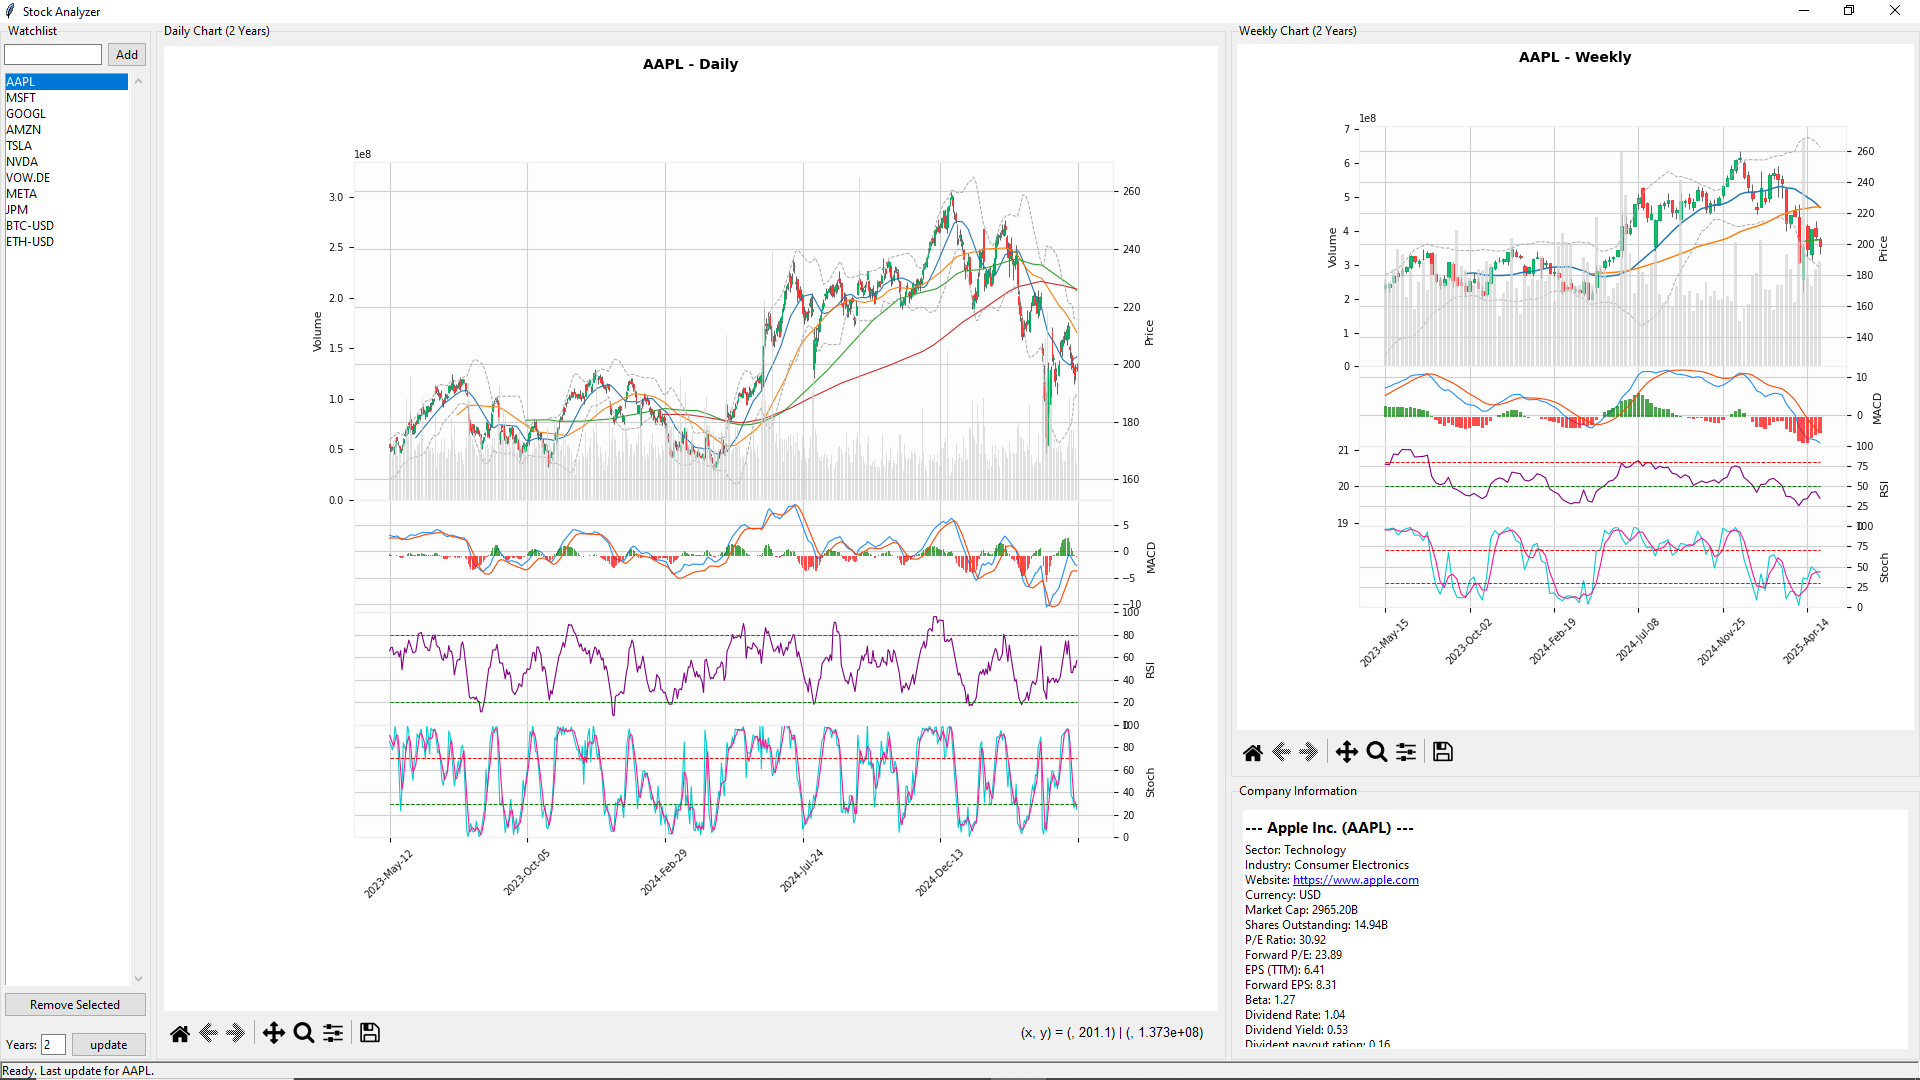
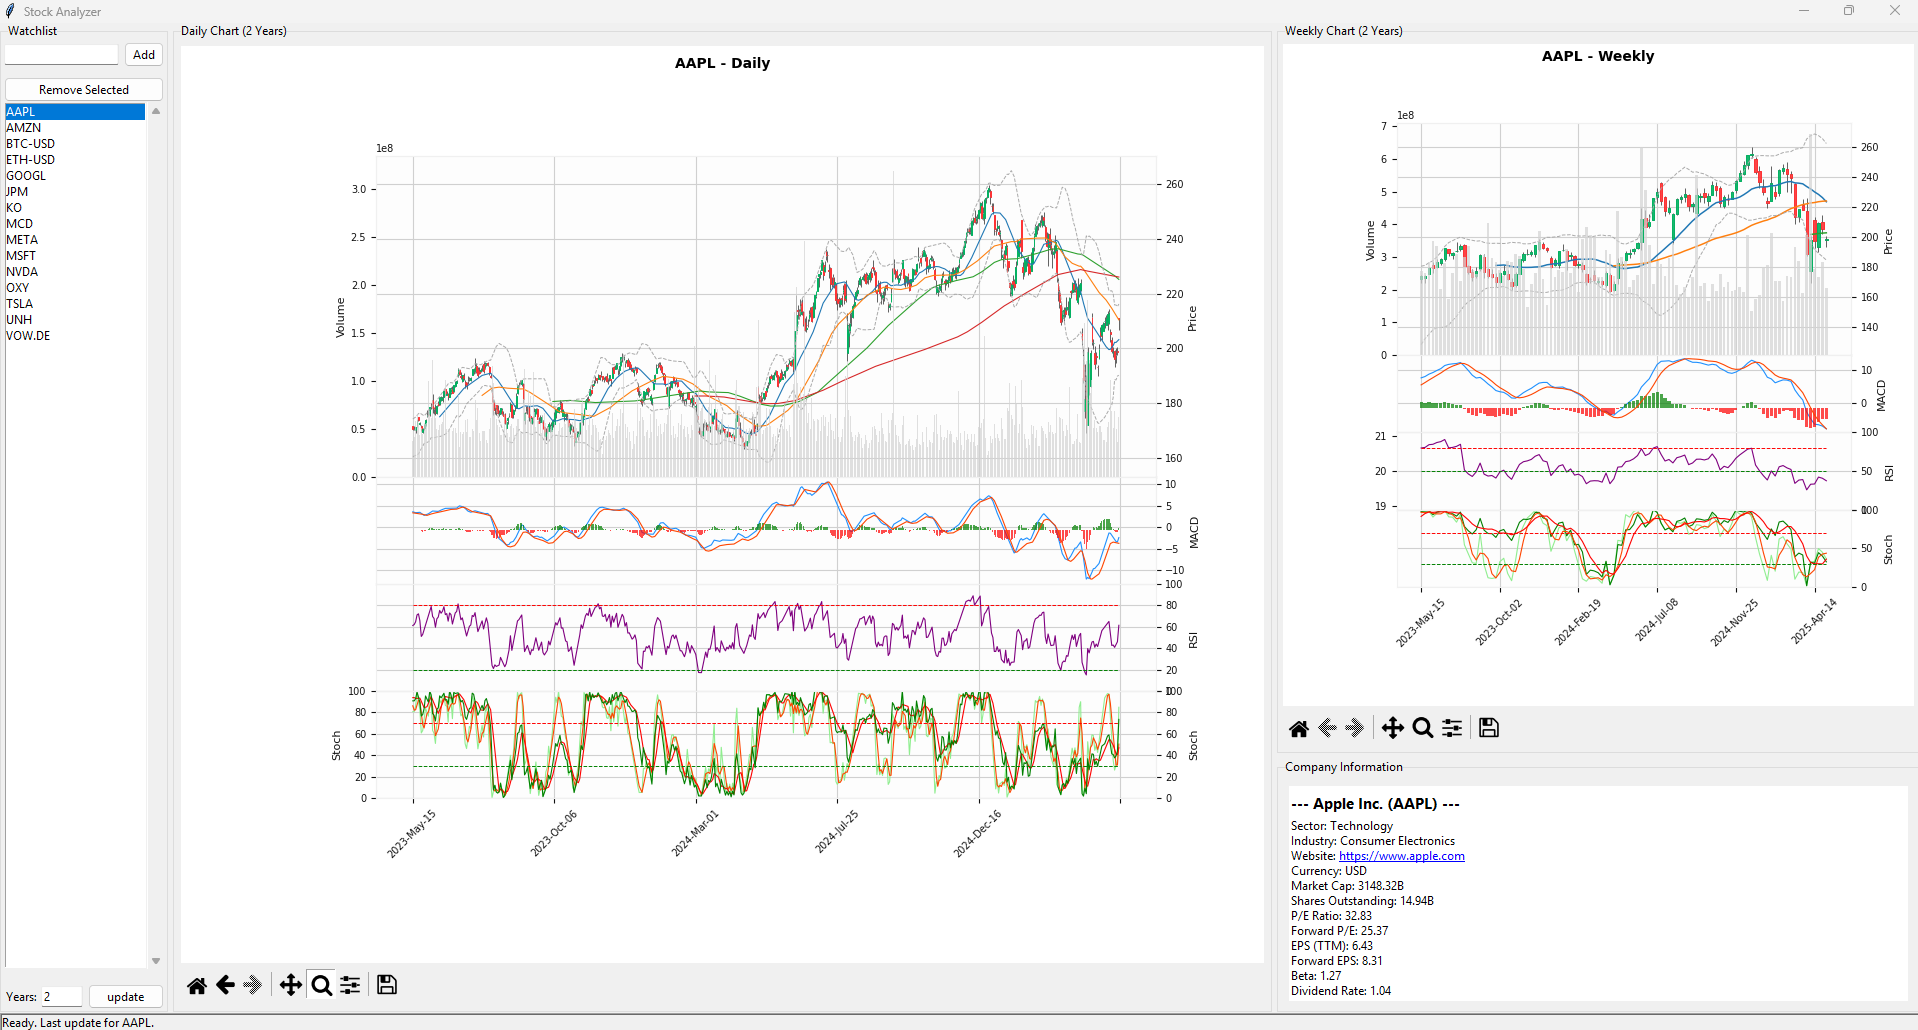
added slow and fast stochastic %K,%D lines refactoring

diff --git a/src/indicators.py b/src/indicators.py
@@ -10,64 +10,11 @@ class Calculator:
     self.df = df.copy()
     return self
   #--------------------------------------------------------------------------------------------------------------------------------
-  def get(self) -> pd.DataFrame: 
+  def get(self) -> pd.DataFrame:
     return self.df
-  #--------------------------------------------------------------------------------------------------------------------------------
-  def addSmas(self, windows: List[int] = [10, 20, 50, 100, 200]):
-    df = self.df
-    if 'Close' not in df.columns: return df
-    for window in windows:
-      if window <= len(df):
-        df[f'Sma{window}'] = df['Close'].rolling(window=window, min_periods=1).mean()
-      else:
-        df[f'Sma{window}'] = pd.NA
-  #--------------------------------------------------------------------------------------------------------------------------------
-  def addBollingerBands(self, window: int = 20, numStdDev: int = 2):
-    df = self.df
-    if 'Close' not in df.columns: return df
-    if window <= len(df):
-      df['BbMiddle'] = df['Close'].rolling(window=window, min_periods=1).mean()
-      stdDev = df['Close'].rolling(window=window, min_periods=1).std()
-      df['BbUpper'] = df['BbMiddle'] + (stdDev * numStdDev)
-      df['BbLower'] = df['BbMiddle'] - (stdDev * numStdDev)
-    else:
-      df['BbMiddle'] = pd.NA
-      df['BbUpper'] = pd.NA
-      df['BbLower'] = pd.NA
-  #--------------------------------------------------------------------------------------------------------------------------------
-  def addMacd(self, shortWindow: int = 12, longWindow: int = 26, signalWindow: int = 9):
-    df = self.df
-    if 'Close' not in df.columns: return df
-    if longWindow <= len(df):
-      shortEma = df['Close'].ewm(span=shortWindow, adjust=False, min_periods=1).mean()
-      longEma = df['Close'].ewm(span=longWindow, adjust=False, min_periods=1).mean()
-      df['MACD'] = shortEma - longEma
-      if signalWindow <= len(df['MACD'].dropna()):
-        df['MacdSignal'] = df['MACD'].ewm(span=signalWindow, adjust=False, min_periods=1).mean()
-        df['MacdHist'] = df['MACD'] - df['MacdSignal']
-      else:
-        df['MacdSignal'] = pd.NA
-        df['MacdHist'] = pd.NA
-    else:
-      df['MACD'] = pd.NA
-      df['MacdSignal'] = pd.NA
-      df['MacdHist'] = pd.NA
-  #--------------------------------------------------------------------------------------------------------------------------------
-  def addRsi(self, window: int = 14):
-    df = self.df
-    if 'Close' not in df.columns: return df
-    if window < len(df):
-      delta = df['Close'].diff(1)
-      gain = (delta.where(delta > 0, 0.0)).rolling(window=window, min_periods=1).mean()
-      loss = (-delta.where(delta < 0, 0.0)).rolling(window=window, min_periods=1).mean()
-      rs = gain / loss.replace(0, 1e-9)
-      df['RSI'] = 100 - (100 / (1 + rs))
-      df['RSI'] = df['RSI'].fillna(50)
-    else:
-      df['RSI'] = 50.0
-  #--------------------------------------------------------------------------------------------------------------------------------
-  def addStochastic(self, kWindow: int = 14, dWindow: int = 3):
-    df = self.df
+  #----------------------------------------------------------------------------------------------------------------------  
+  def addStochasticOscillator(self, kWindow:int=14, dWindow:int=3) -> pd.DataFrame:
+    df = self.df.copy()
     if 'Close' not in df.columns or 'Low' not in df.columns or 'High' not in df.columns: return df
     if kWindow <= len(df):
       lowMin = df['Low'].rolling(window=kWindow, min_periods=1).min()
@@ -83,6 +30,101 @@ class Calculator:
     else:
       df['%K'] = 50.0
       df['%D'] = 50.0
+    return df
+  #--------------------------------------------------------------------------------------------------------------------------------
+  def addStochastic(self, kWindow: int = 16, dWindow: int = 3):
+    #self.df = self.addStochasticOscillator(kWindow, dWindow)
+    stoch = self.addStochasticOscillator(kWindow, dWindow)
+    # make slow Stochastic Oscillator with standard window 3
+    self.df['stochK'] = stoch["%K"].copy()
+    self.df['stochD'] = stoch["%D"].copy()
+    # make average of stochastic k and signal
+    # 20, 5; 15, 12; 18, 14
+    #df['stochKSlow'] = df['stochK'].rolling(window=12).mean()
+    #df['StMaS'] = df['stochSignalK'].rolling(window=9).mean()
+    stoch = self.addStochasticOscillator(44,5)
+    self.df['stochKSlow'] = stoch["%K"].copy()
+    self.df['stochDSlow'] = stoch["%D"].copy()
+  #--------------------------------------------------------------------------------------------------------------------------------
+  def addMacd(self,slow=29, fast=12, smooth=6):
+    # MACD
+    #   MACD calculation
+    #   MACD        = EMA(close, timeperiod=12) - EMA(close, timeperiod=26)
+    #   MACD signal = EMA(MACD_slow, timeperiod=9)
+    #   Histogram   = MACD_slow - MACD_signal 
+    #   commonly used (fast, slow, smooth) = (26, 12, 9)
+    # slow, fast, smooth = 29, 10, 6
+    df = self.df
+    exp1   = df['Close'].ewm(span = fast, adjust = False).mean()
+    exp2   = df['Close'].ewm(span = slow, adjust = False).mean()
+    macd   = pd.DataFrame(exp1 - exp2).rename(columns = {'Close':'Macd'})
+    signal = pd.DataFrame(macd.ewm(span = smooth, adjust = False).mean()).rename(columns = {'Macd':'MacdSignal'})
+    hist   = pd.DataFrame(macd['Macd'] - signal['MacdSignal']).rename(columns = {0:'hist'})
+    df['Macd']    = macd
+    df['MacdSignal'] = signal
+    df['MacdHist'] = hist.rename(columns = {0:'MacdHist'})
+    self.df = df
+  #--------------------------------------------------------------------------------------------------------------------------------
+  def addRsi(self, window: int = 14):
+    """Calculate RSI with Exponential Moving Average
+    Adds following entries to df: RSI
+    """
+    df = self.df
+    if 'Close' not in df.columns: return df
+    if 1:
+      # calculate RSI with Exponential Moving Average
+      # see https://www.learnpythonwithrune.org/pandas-calculate-the-relative-strength-index-rsi-on-a-stock/
+      delta     = df['Close'].diff()
+      up        =    delta.clip(lower=0)
+      down      = -1*delta.clip(upper=0)
+      ema_up    = up  .ewm(com=10, adjust=False).mean()
+      ema_down  = down.ewm(com=7, adjust=False).mean()
+      rs        = ema_up/ema_down
+      df['RSI'] = 100 - (100/(1 + rs))
+      df['RSI'] = df['RSI'].fillna(50)
+
+    else:
+      if window < len(df):
+        delta = df['Close'].diff(1)
+        gain = (delta.where(delta > 0, 0.0)).rolling(window=window, min_periods=1).mean()
+        loss = (-delta.where(delta < 0, 0.0)).rolling(window=window, min_periods=1).mean()
+        rs = gain / loss.replace(0, 1e-9)
+        df['RSI'] = 100 - (100 / (1 + rs))
+        df['RSI'] = df['RSI'].fillna(50)
+      else:
+        df['RSI'] = 50.0
+  #--------------------------------------------------------------------------------------------------------------------------------
+  def addMovingAverages(self, windows: List[int] = [5, 10, 20, 50, 100, 200]):
+    """Calculate the Moving averages to df.
+    Adds following entries to df: Ma#, Cma#, Ema# with # = 5,10,20,50,100,200
+    """
+    df = self.df
+    if 'Close' not in df.columns: return df
+    for window in windows:
+      if window <= len(df):
+        df[f'Sma{window}'] = df['Close'].rolling(window=window, min_periods=1).mean()
+        df[f'Cma{window}'] = df['Close'].expanding().mean()
+        df[f'Ema{window}'] = df['Close'].ewm(span=window).mean()
+        #df[f'Ema{window}'] = ta.ema(df['Close'], window)
+      else:
+        df[f'Sma{window}'] = pd.NA
+        df[f'Cma{window}'] = pd.NA
+        df[f'Ema{window}'] = pd.NA
+  #--------------------------------------------------------------------------------------------------------------------------------
+  def addBollingerBands(self, window: int = 20, numStdDev: int = 2):
+    df = self.df
+    if 'Close' not in df.columns: return df
+    if window <= len(df):
+      df['BbMiddle'] = df['Close'].rolling(window=window, min_periods=1).mean()
+      stdDev = df['Close'].rolling(window=window, min_periods=1).std()
+      df['BbUpper'] = df['BbMiddle'] + (stdDev * numStdDev)
+      df['BbLower'] = df['BbMiddle'] - (stdDev * numStdDev)
+      df['BbSize'] = df['BbUpper'] - df['BbLower']
+    else:
+      df['BbMiddle'] = pd.NA
+      df['BbUpper'] = pd.NA
+      df['BbLower'] = pd.NA
+      df['BbSize'] = pd.NA
   #----------------------------------------------------------------------------------------------------------------------  
   def addVolatility(self):
     # from https://www.learnpythonwithrune.org/calculate-the-volatility-of-historic-stock-prices-with-pandas-and-python/
@@ -90,11 +132,10 @@ class Calculator:
   #----------------------------------------------------------------------------------------------------------------------  
   def calculate(self)-> 'Calculator':
     if not self.df.empty: 
-      self.addSmas()
+      self.addMovingAverages()
       self.addBollingerBands()
       self.addMacd()
       self.addRsi()
       self.addStochastic()
-      #df = self.addVolatility()
+      self.addVolatility()
     return self
-    

diff --git a/src/stockAnalyzer.py b/src/stockAnalyzer.py
@@ -146,8 +146,8 @@ class ChartingUtils:
                                         secondary_y=True))
   #--------------------------------------------------------------------------------------------------------------------------------
   def addMacdToPlot(self, plotDf: pd.DataFrame, addPlots: List[Dict[str, Any]], currentPanelId: int) -> bool:
-    if 'MACD' in plotDf.columns and not plotDf['MACD'].isnull().all():
-      addPlots.append(mpf.make_addplot(plotDf['MACD'], panel=currentPanelId, color='dodgerblue', ylabel='MACD', width=0.8))
+    if 'Macd' in plotDf.columns and not plotDf['Macd'].isnull().all():
+      addPlots.append(mpf.make_addplot(plotDf['Macd'], panel=currentPanelId, color='dodgerblue', ylabel='MACD', width=0.8))
       if 'MacdSignal' in plotDf.columns and not plotDf['MacdSignal'].isnull().all():
         addPlots.append(mpf.make_addplot(plotDf['MacdSignal'], panel=currentPanelId, color='orangered', width=0.8))
       if 'MacdHist' in plotDf.columns and not plotDf['MacdHist'].isnull().all():
@@ -172,10 +172,12 @@ class ChartingUtils:
     return False
   #--------------------------------------------------------------------------------------------------------------------------------
   def addStochasticToPlot(self, plotDf: pd.DataFrame, addPlots: List[Dict[str, Any]], currentPanelId: int) -> bool:
-    if '%K' in plotDf.columns and not plotDf['%K'].isnull().all():
-      addPlots.append(mpf.make_addplot(plotDf['%K'], panel=currentPanelId, color='darkturquoise', ylabel='Stoch', ylim=(0,100), width=0.8))
-      if '%D' in plotDf.columns and not plotDf['%D'].isnull().all():
-        addPlots.append(mpf.make_addplot(plotDf['%D'], panel=currentPanelId, color='deeppink', width=0.8))
+    if 'stochK' in plotDf.columns and not plotDf['stochK'].isnull().all():
+      addPlots.append(mpf.make_addplot(plotDf['stochK']    , panel=currentPanelId, color='lightgreen', ylabel='Stoch', ylim=(0,100), width=0.8))
+      addPlots.append(mpf.make_addplot(plotDf['stochKSlow'], panel=currentPanelId, color='green', ylabel='Stoch', ylim=(0,100), width=0.8))
+      if 'stochD' in plotDf.columns and not plotDf['stochD'].isnull().all():
+        addPlots.append(mpf.make_addplot(plotDf['stochD']    , panel=currentPanelId, color='orangered', width=0.8))
+        addPlots.append(mpf.make_addplot(plotDf['stochDSlow'], panel=currentPanelId, color='red', width=0.8))
       addPlots.append(mpf.make_addplot(pd.Series(70, index=plotDf.index), panel=currentPanelId, color='red', linestyle='dashed', width=0.7))
       addPlots.append(mpf.make_addplot(pd.Series(30, index=plotDf.index), panel=currentPanelId, color='green', linestyle='dashed', width=0.7))
       return True
